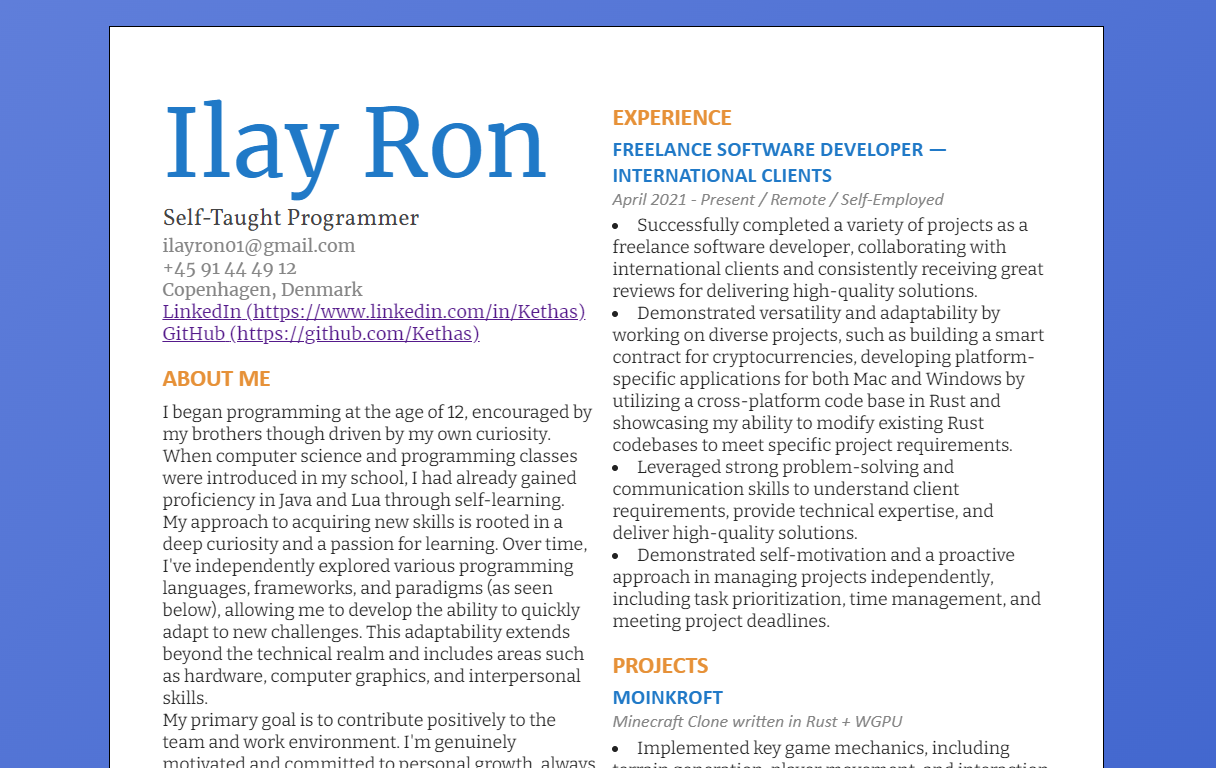
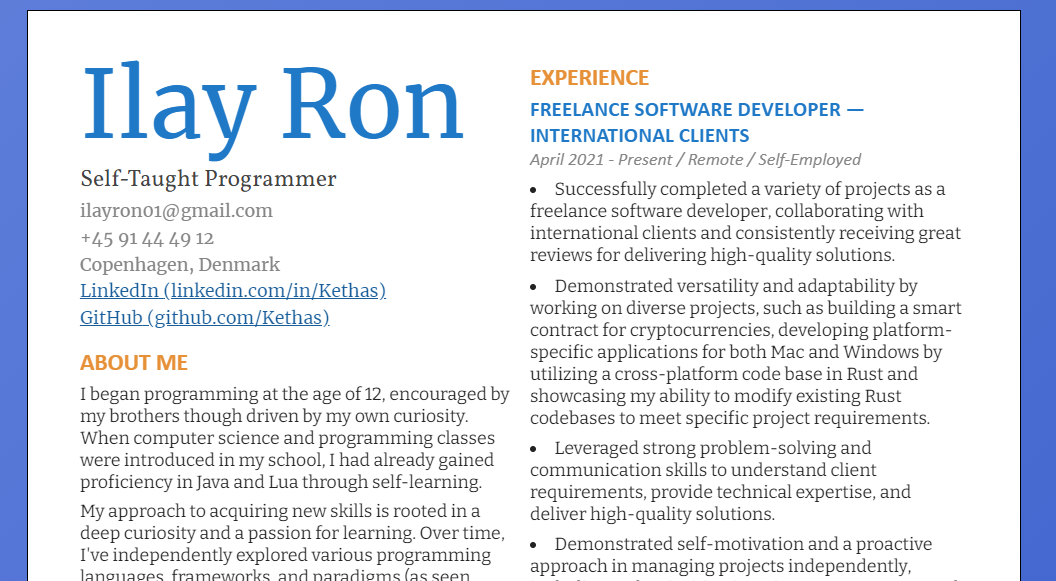
Add content to Projects

diff --git a/index.scss b/index.scss
@@ -32,7 +32,12 @@ body {
     display: block !important;
     width: 100%;
     height: 100%;
+
+    .container {
+      margin: 0;
+    }
   }
+
 
   .page {
     width: 100%;
@@ -52,7 +57,7 @@ body {
 
   .headline {
     // magic number
-    font-size: 6.9vw !important;
+    font-size: 6.5vw !important;
   }
 
   .contact-datum span.link {
@@ -78,7 +83,7 @@ body {
     margin: auto;
     width: 70%;
     margin-top: 0.3cm !important;
-    margin-bottom: -0.8cm !important;
+    margin-bottom: -0.5cm !important;
     text-align: center;
 
     div {
@@ -208,7 +213,7 @@ body {
 }
 
 .page-content {
-  padding: 0.75cm 0.1cm;
+  padding: 0.5cm 0.1cm;
 }
 
 #cv {
@@ -274,6 +279,7 @@ ul.skills-list {
 
 ul.bullet-points {
   margin-top: 1mm;
+  margin-bottom: 1mm;
   list-style-position: inside;
   padding-left: 0;
 

diff --git a/src/lib.rs b/src/lib.rs
@@ -3,7 +3,7 @@ use yew::{prelude::*, props};
 #[function_component(App)]
 pub fn app() -> Html {
     html! {
-        <div>
+        <div class="container">
             <Header />
 
             <div class="page">
@@ -83,9 +83,10 @@ pub fn contact_info(props: &MobileProps) -> Html {
             <div class="contact-datum">{ "+45 91 44 49 12" }</div>
             <div class="contact-datum">{ "Copenhagen, Denmark" }</div>
 
-            <div class="contact-datum"><a href="https://www.linkedin.com/in/Kethas">{ "LinkedIn" } <span class="link">{ "(https://www.linkedin.com/in/Kethas)" }</span></a></div>
-            <div class="contact-datum"><a href="https://github.com/Kethas">{ "GitHub" } <span class="link">{ "(https://github.com/Kethas)" }</span></a></div>
-            <div class="contact-datum print-only"><a href="https://portfolio.asphyx.dev">{ "Portfolio" }<span class="link">{ "(https://portfolio.asphyx.dev)" }</span></a></div>
+            <div class="contact-datum"><a href="https://www.linkedin.com/in/Kethas">{ "LinkedIn" } <span class="link">{ "(linkedin.com/in/Kethas)" }</span></a></div>
+            <div class="contact-datum"><a href="https://github.com/Kethas">{ "GitHub" } <span class="link">{ "(github.com/Kethas)" }</span></a></div>
+            <div class="contact-datum print-only"><a href="https://cv.asphyx.dev">{ "View CV Online" } <span class="link">{ "(cv.asphyx.dev)" }</span></a></div>
+            <div class="contact-datum print-only"><a href="https://portfolio.asphyx.dev">{ "View Portfolio Online" }<span class="link">{ "(portfolio.asphyx.dev)" }</span></a></div>
 
 
         </div>
@@ -273,6 +274,23 @@ pub fn projects(props: &MobileProps) -> Html {
                     <li>
                     {
                         "Utilized Rust's expressive syntax and memory safety features to explore my passion towards programming languages and created a reliable and maintainable parser.   "
+                    }
+                    </li>
+                </ul>
+            </div>
+
+            <div class={ if props.is_mobile { "zero-opacity" } else { "" } }>
+                <h2>{ "CV and Portfolio" }</h2>
+                <div class="subtitle">{ "Animated webpages showcasing my skills and projects" }</div>
+                <ul class="bullet-points">
+                    <li>
+                    {
+                        "Created this CV and its accompanying portfolio as static webpages from conception to a finished product within a week."
+                    }
+                    </li>
+                    <li>
+                    {
+                        "Learned to master HTML and CSS and CSS animations and solved challenging issues that arose due to using Rust for web."
                     }
                     </li>
                 </ul>
